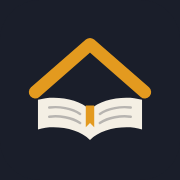
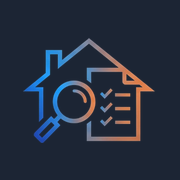
aplicația cartea casei: actualizare 2026-10-25

Changed region(s): [[0.1111, 0.1944, 0.8611, 0.8056]]

diff --git a/app/index.html b/app/index.html
@@ -5,24 +5,24 @@
 <meta name="viewport" content="width=device-width,initial-scale=1,viewport-fit=cover">
 <title>cartea casei</title>
 <meta name="description" content="raportul casei tale, pe telefon: capitol cu capitol, doar pentru tine.">
-<meta name="theme-color" content="#1a1e2a">
+<meta name="theme-color" content="#1c2534">
 <meta name="apple-mobile-web-app-capable" content="yes">
 <meta name="apple-mobile-web-app-status-bar-style" content="default">
 <meta name="apple-mobile-web-app-title" content="cartea casei">
 <meta name="robots" content="noindex,nofollow">
 <link rel="manifest" href="manifest.webmanifest">
-<link rel="icon" type="image/svg+xml" href="logo.svg"><link rel="icon" type="image/png" href="icon-192.png">
+<link rel="icon" type="image/png" href="icon-192.png">
 <link rel="apple-touch-icon" href="icon-180.png">
 <link rel="preconnect" href="https://fonts.googleapis.com">
 <link rel="stylesheet" href="https://fonts.googleapis.com/css2?family=Fraunces:opsz,wght@9..144,600;9..144,700&family=Instrument+Sans:wght@400;500;600;700&display=swap">
-<link rel="stylesheet" href="styles.css?v=20261025d">
+<link rel="stylesheet" href="styles.css?v=20261025h">
 </head>
 <body>
-<div id="app" aria-live="polite"><div class="ecran centru"><p class="mut">se încarcă…</p></div></div>
+<div id="app" aria-live="polite"><div class="ecran centru"><img src="emblema.png" alt="" style="width:min(50vw,200px);height:auto;opacity:.9"></div></div>
 <script src="../platforma/config.js"></script>
 <script src="https://cdn.jsdelivr.net/npm/@supabase/supabase-js@2.45.4/dist/umd/supabase.min.js"></script>
 <script src="https://cdnjs.cloudflare.com/ajax/libs/qrcode-generator/1.4.4/qrcode.min.js"></script>
-<script src="app.js?v=20261025g"></script>
+<script src="app.js?v=20261025h"></script>
 <script src="cereri.js?v=20261024a"></script>
 <script src="mapa.js?v=20261025c"></script>
 </body>

diff --git a/app/app.js b/app/app.js
@@ -52,12 +52,12 @@
   }
 
   /* ---------- intrare ---------- */
-  const SIGLA = `<svg class="sigla" viewBox="0 0 512 512" aria-hidden="true"><use href="logo.svg#sigla"/></svg>`;
-  const marca = () => `<div class="marca">${SIGLA}<span>cartea casei</span></div>`;
+  const marca = () => `<div class="marca"><img class="sigla" src="emblema.png" alt="" width="44" height="35"><span>cartea casei</span></div>`;
   function qrSvg(text, cell) { try { const q = qrcode(0, "M"); q.addData(text); q.make(); return q.createSvgTag({ cellSize: cell || 5, margin: 2, scalable: true }); } catch (e) { return ""; } }
   function ecranIntrare(msg) {
     const desk = !MOBIL();
     app.innerHTML = `<div class="ecran">${marca()}
+      <div style="text-align:center;margin:6px 0 2px"><img src="emblema.png" alt="cartea casei" style="width:min(58vw,230px);height:auto"></div>
       <div><h1>raportul casei tale</h1><p class="lead">doar pentru tine, capitol cu capitol. intri cu codul raportului și pin-ul.</p></div>
       <div class="cutie" id="f-pin">
         <label class="camp">codul raportului<input type="text" id="pc" autocapitalize="characters" autocomplete="username" spellcheck="false" placeholder="CC-XXXXXX"></label>

diff --git a/app/sw.js b/app/sw.js
@@ -1,7 +1,7 @@
 /* Cartea Casei · service worker: doar scheletul aplicației (pornește și fără semnal).
    Capitolele, rapoartele și orice răspuns de la server NU se păstrează aici (alt domeniu → nu trec prin cache). */
-const CACHE = 'cartea-casei-20261025g';
-const SHELL = ['./', './index.html', './styles.css?v=20261025d', './app.js?v=20261025g', './cereri.js?v=20261024a', './mapa.js?v=20261025c', './manifest.webmanifest', './icon-192.png', './icon-512.png', './logo.svg'];
+const CACHE = 'cartea-casei-20261025h';
+const SHELL = ['./', './index.html', './styles.css?v=20261025h', './app.js?v=20261025h', './cereri.js?v=20261024a', './mapa.js?v=20261025c', './manifest.webmanifest', './icon-192.png', './icon-512.png', './emblema.png'];
 self.addEventListener('install', (e) => { e.waitUntil(caches.open(CACHE).then((c) => c.addAll(SHELL)).then(() => self.skipWaiting())); });
 self.addEventListener('activate', (e) => { e.waitUntil(caches.keys().then((ks) => Promise.all(ks.filter((k) => k !== CACHE).map((k) => caches.delete(k)))).then(() => self.clients.claim())); });
 const POZE = 'cartea-casei-poze';

diff --git a/app/styles.css b/app/styles.css
@@ -86,4 +86,4 @@ input:focus{outline:2px solid var(--acc);outline-offset:1px}
 /* v25.10: ascuns real, fâșia filigran, sigla */
 [hidden]{display:none!important}
 .fil{flex:none;text-align:center;font:600 10.5px system-ui;color:#9a9484;padding:3px 8px;background:var(--panel);border-top:1px solid var(--linie);letter-spacing:.03em;overflow:hidden;white-space:nowrap;text-overflow:ellipsis}
-.marca{font:700 17px var(--titlu);letter-spacing:-.01em}.marca .sigla{width:36px;height:36px;flex:none;border-radius:9px}
+.marca{font:700 17px var(--titlu);letter-spacing:-.01em;gap:12px}.marca .sigla{width:44px;height:auto;flex:none}
